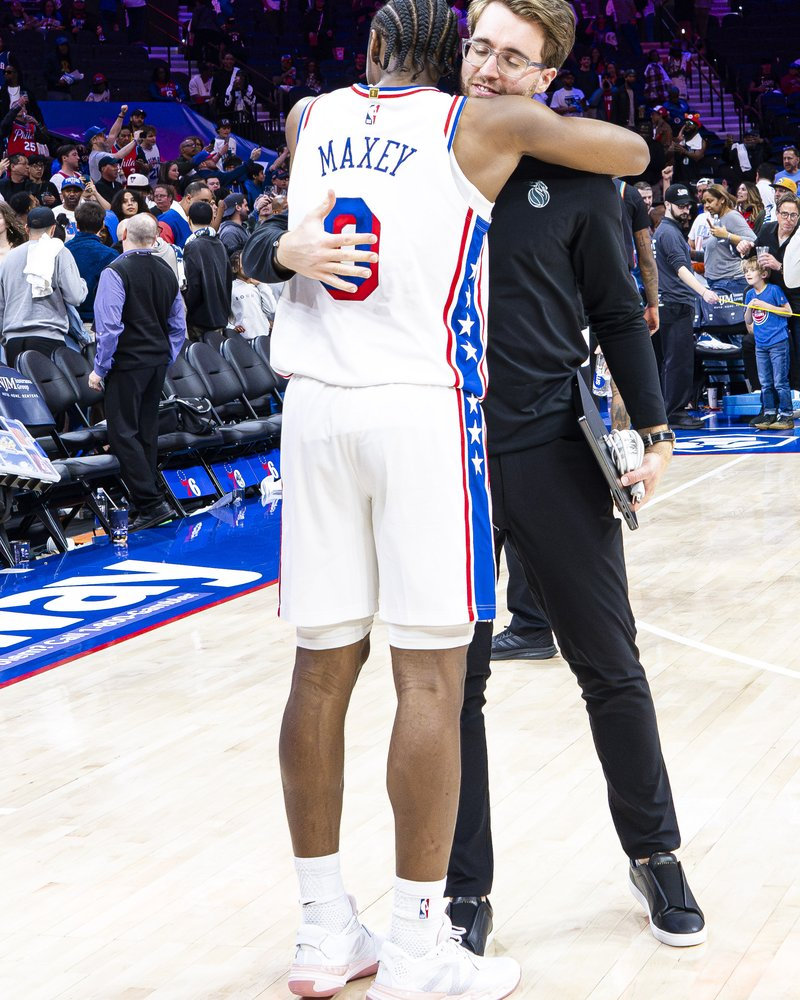
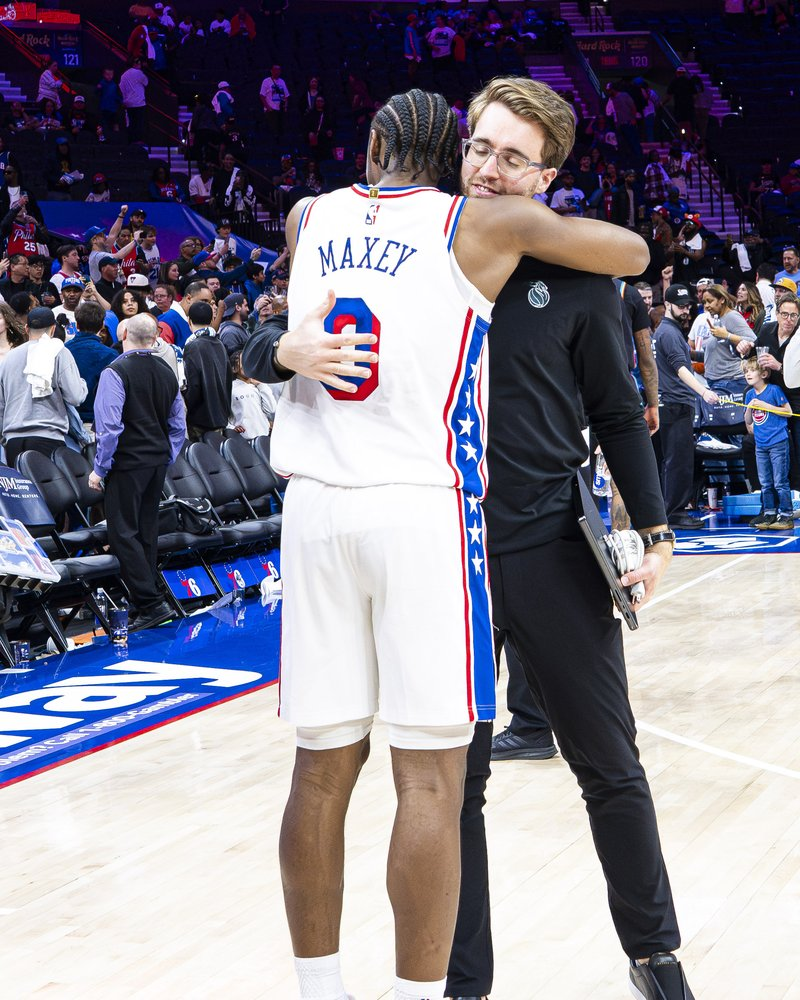
Expand hero slideshow to 6 photos with refined crops

diff --git a/index.html b/index.html
@@ -73,9 +73,19 @@
               alt="Will Gent on the Detroit Pistons practice court, holding a basketball, Pistons logo behind him."
               width="800" height="1000" />
             <img class="hero-slide"
+              src="assets/hero-5-watching.jpg"
+              srcset="assets/hero-5-watching.jpg 1x, assets/hero-5-watching@2x.jpg 2x"
+              alt="Will Gent standing on the Pistons practice court, arms crossed, watching practice."
+              width="800" height="1000" loading="lazy" />
+            <img class="hero-slide"
               src="assets/hero-2-teaching.jpg"
               srcset="assets/hero-2-teaching.jpg 1x, assets/hero-2-teaching@2x.jpg 2x"
               alt="Will Gent coaching a Pistons player wearing number 55 during practice."
+              width="800" height="1000" loading="lazy" />
+            <img class="hero-slide"
+              src="assets/hero-6-huddle.jpg"
+              srcset="assets/hero-6-huddle.jpg 1x, assets/hero-6-huddle@2x.jpg 2x"
+              alt="Will Gent in a locker room huddle with players, arms raised in pregame energy."
               width="800" height="1000" loading="lazy" />
             <img class="hero-slide"
               src="assets/hero-3-playoffs.jpg"

diff --git a/css/style.css b/css/style.css
@@ -247,22 +247,24 @@ p { color: var(--ink-soft); }
   display: block;
 }
 
-/* Hero slideshow — 4 slides, crossfade, 20s cycle (5s per slide) */
+/* Hero slideshow — 6 slides, crossfade, 30s cycle (5s per slide) */
 .hero-slide {
   opacity: 0;
-  animation: heroFade 20s infinite ease-in-out;
+  animation: heroFade 30s infinite ease-in-out;
 }
 .hero-slide:nth-child(1) { animation-delay: -1s; }
 .hero-slide:nth-child(2) { animation-delay:  4s; }
 .hero-slide:nth-child(3) { animation-delay:  9s; }
 .hero-slide:nth-child(4) { animation-delay: 14s; }
+.hero-slide:nth-child(5) { animation-delay: 19s; }
+.hero-slide:nth-child(6) { animation-delay: 24s; }
 
 @keyframes heroFade {
-  0%   { opacity: 0; }
-  5%   { opacity: 1; }
-  25%  { opacity: 1; }
-  30%  { opacity: 0; }
-  100% { opacity: 0; }
+  0%      { opacity: 0; }
+  3.33%   { opacity: 1; }
+  16.67%  { opacity: 1; }
+  20%     { opacity: 0; }
+  100%    { opacity: 0; }
 }
 
 @media (prefers-reduced-motion: reduce) {
